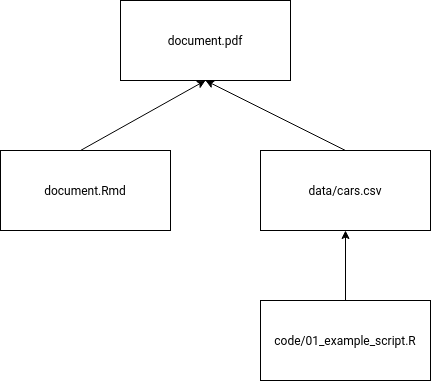
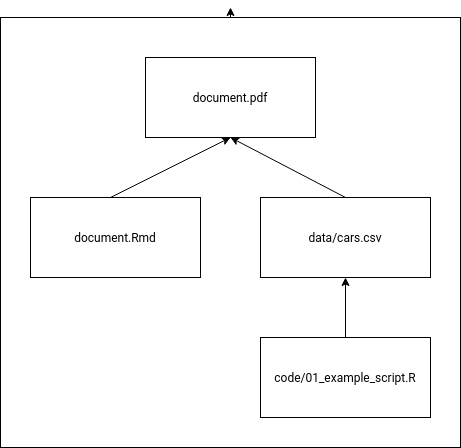
added background to dependency flowchart image

diff --git a/README.md b/README.md
@@ -24,6 +24,8 @@ This frees you up to focus on the important parts of research, and gives
 confidence that your calculations are always based on the up-to-date figures
 from upstream.
 
+### Dependency Chart for the Example Project
+
 ![Dependency chart for the example project](dependency_flowchart.png)
 
 ## Replication With Docker
